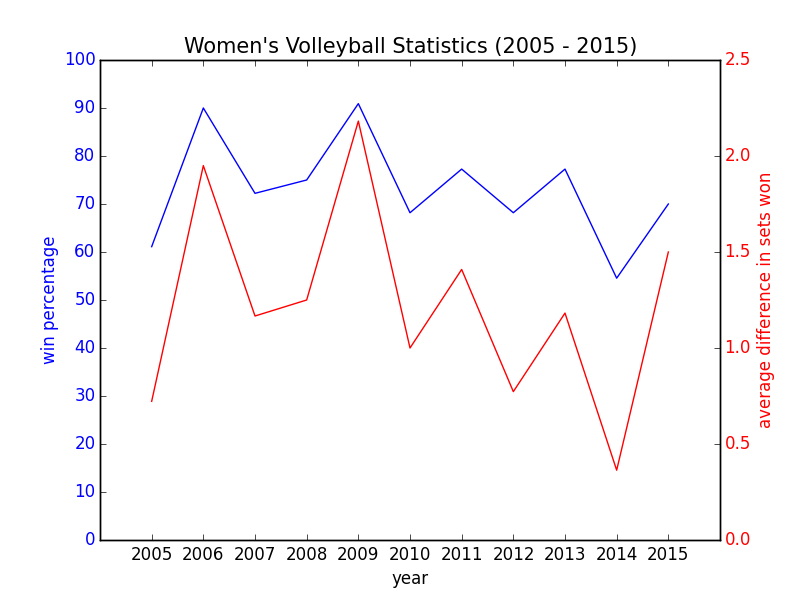
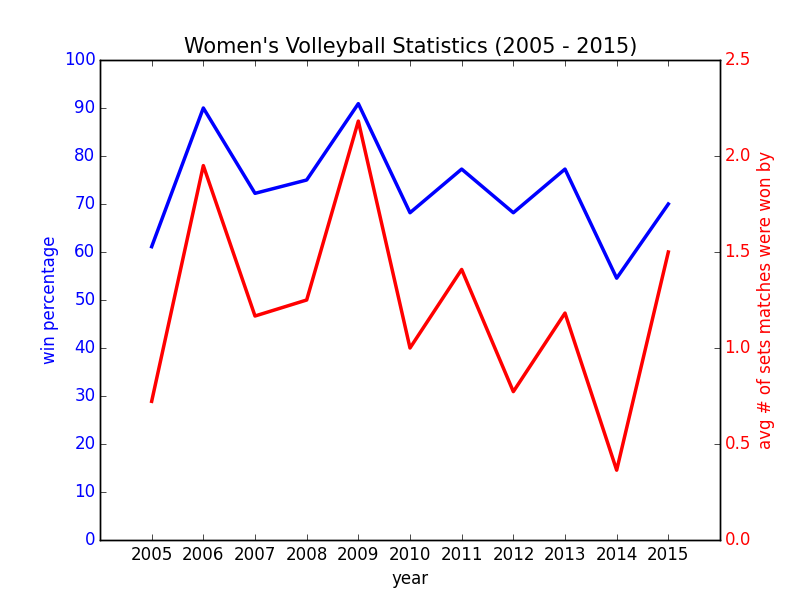
W volleyball - changed

diff --git a/volleyball_w/script.py b/volleyball_w/script.py
@@ -42,7 +42,7 @@ fig, ax1 = plt.subplots()
 t = np.arange(2005, 2016, 1)
 s1 = summary['Percent Won'].values
 
-ax1.plot(t, s1, 'b-')
+ax1.plot(t, s1, 'b-',linewidth=2.5)
 ax1.set_xlabel('year')
 
 # Make the y-axis label and tick labels match the line color.
@@ -51,10 +51,8 @@ for tl in ax1.get_yticklabels():
     tl.set_color('b')
 
 years = [int(x) for x in years]
-print(years)
     
 x = range(0,len(years))
-
 ps = range(0,110,10)
 
 axes = plt.gca()
@@ -64,8 +62,8 @@ plt.yticks(ps)
 ax2 = ax1.twinx()
 s2 = summary['Set Diff Avg'].values
 
-ax2.plot(t, s2, 'r-')
-ax2.set_ylabel('average difference in sets won', color='r')
+ax2.plot(t, s2, 'r-',linewidth=2.5)
+ax2.set_ylabel('avg # of sets matches were won by', color='r')
 for tl in ax2.get_yticklabels():
     tl.set_color('r')
 
